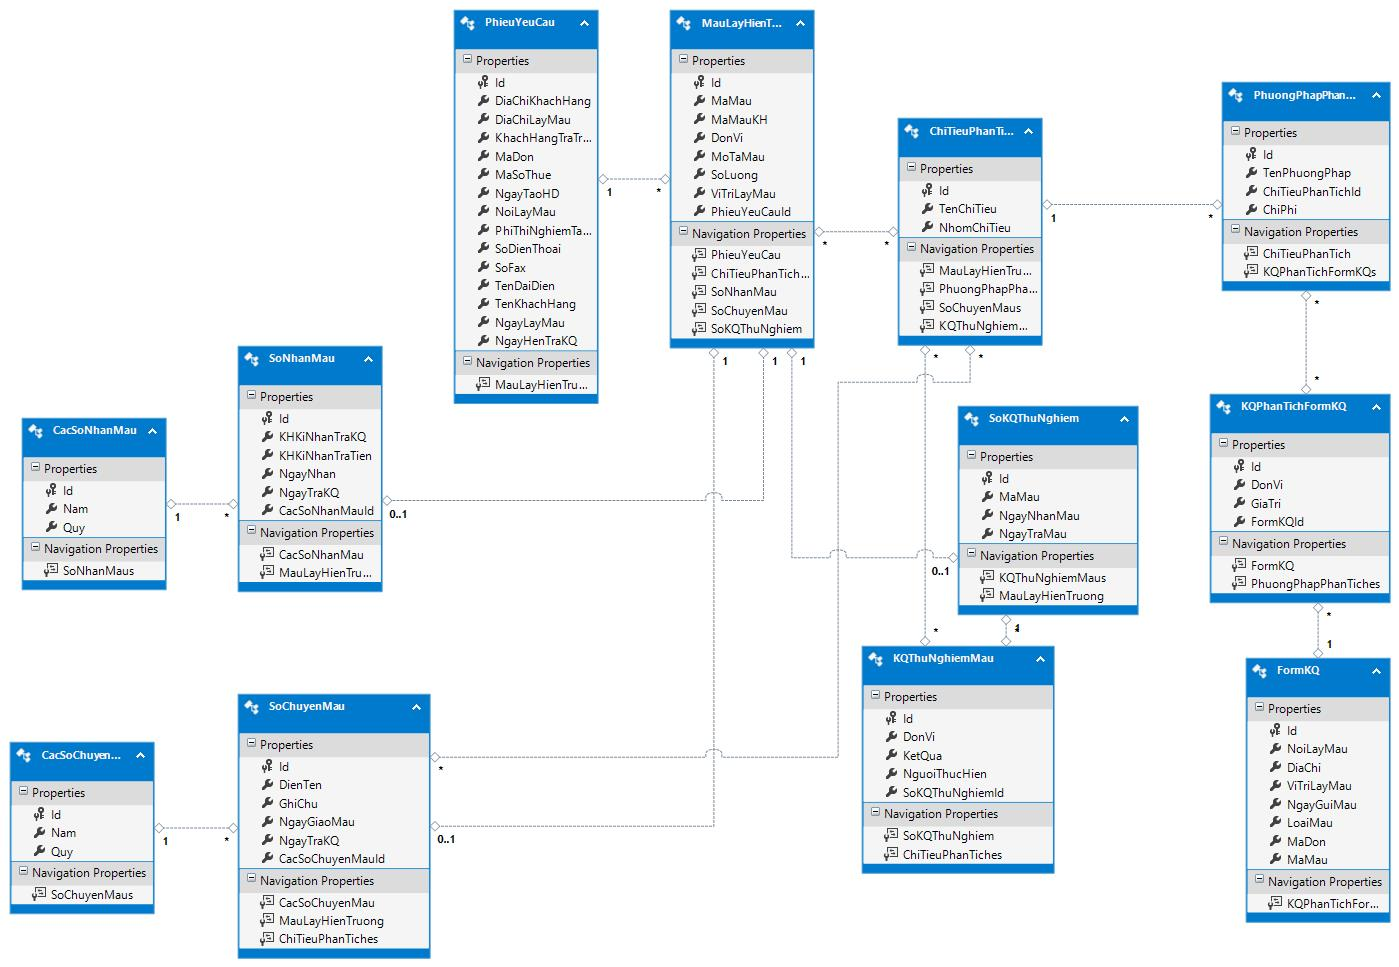
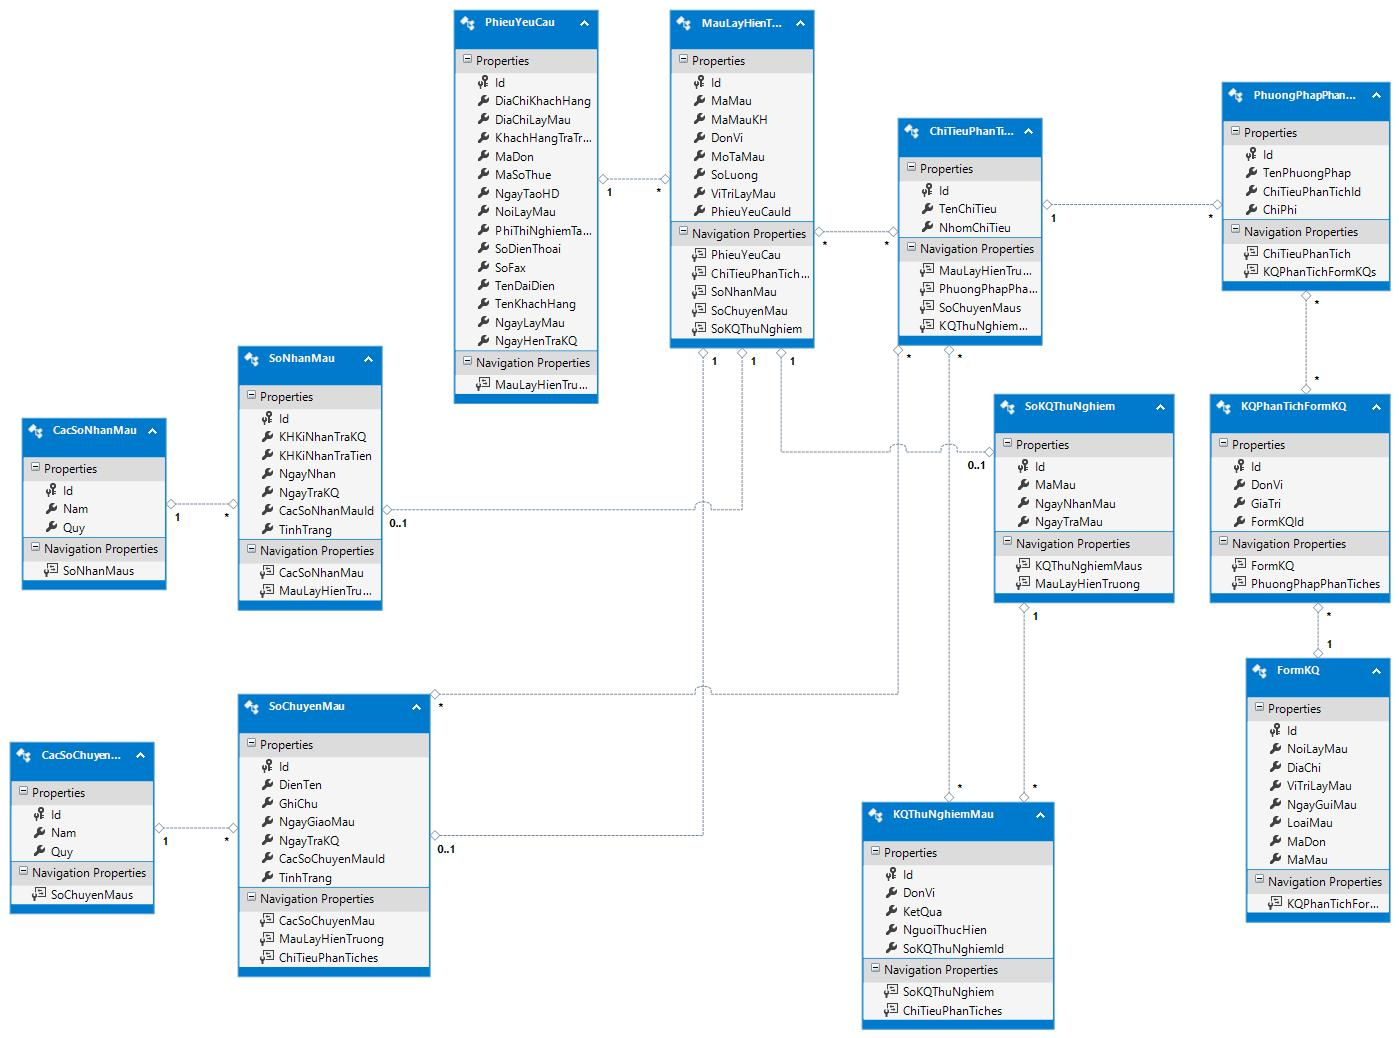
Add 'Tinh Trang' fields into SoChuyenMau & SoNhanMau + update diagram image

diff --git a/Source-Codes/IERSystem/IERSystem/Areas/Administrator/Models/SoChuyenMau.cs b/Source-Codes/IERSystem/IERSystem/Areas/Administrator/Models/SoChuyenMau.cs
@@ -26,6 +26,7 @@ namespace IERSystem.Areas.Administrator.Models
         public System.DateTime NgayGiaoMau { get; set; }
         public System.DateTime NgayTraKQ { get; set; }
         public long CacSoChuyenMauId { get; set; }
+        public byte TinhTrang { get; set; }
     
         public virtual CacSoChuyenMau CacSoChuyenMau { get; set; }
         public virtual MauLayHienTruong MauLayHienTruong { get; set; }

diff --git a/Source-Codes/IERSystem/IERSystem/Areas/Administrator/Models/SoNhanMau.cs b/Source-Codes/IERSystem/IERSystem/Areas/Administrator/Models/SoNhanMau.cs
@@ -20,6 +20,7 @@ namespace IERSystem.Areas.Administrator.Models
         public System.DateTime NgayNhan { get; set; }
         public System.DateTime NgayTraKQ { get; set; }
         public long CacSoNhanMauId { get; set; }
+        public byte TinhTrang { get; set; }
     
         public virtual CacSoNhanMau CacSoNhanMau { get; set; }
         public virtual MauLayHienTruong MauLayHienTruong { get; set; }
